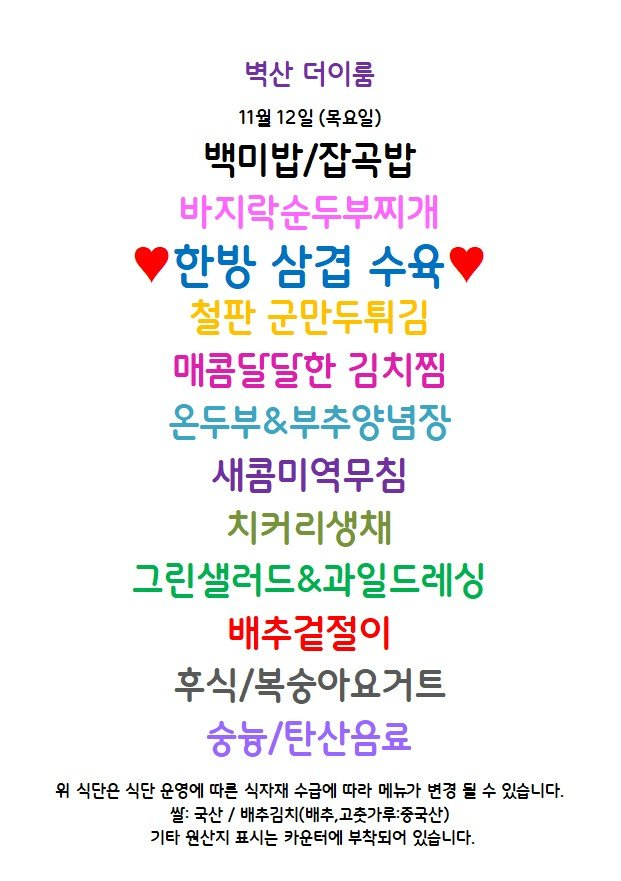
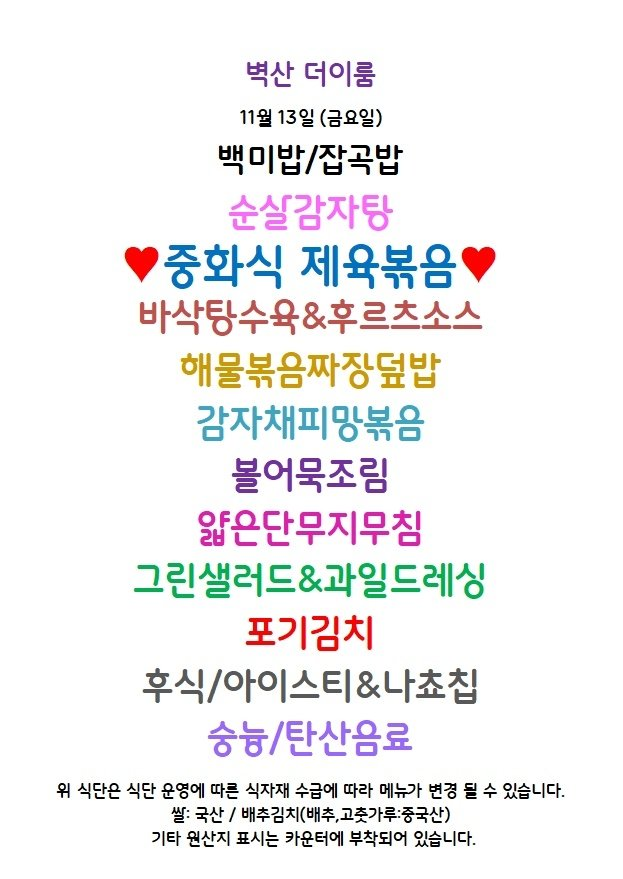
Update menu board assets

diff --git a/guro-menu/index.html b/guro-menu/index.html
@@ -32,7 +32,7 @@
   </header>
   <section class="meta">
     <div><small>기준 날짜</small><strong>2026년 11월 13일 금요일</strong></div>
-    <div><small>최종 갱신</small><strong>2026-11-13 09:03:47</strong></div>
+    <div><small>최종 갱신</small><strong>2026-11-13 09:14:06</strong></div>
     <div><small>등록 식당</small><strong>5개</strong></div>
   </section>
   <div class="notice">공개 카카오 채널의 메뉴 이미지를 자동 수집하고 OCR로 정리합니다. 텍스트에 오타가 있을 수 있으니 식단 이미지를 함께 확인해 주세요.</div>
@@ -89,8 +89,8 @@
           <a class="channel" href="https://pf.kakao.com/_xdLzxgG" target="_blank" rel="noopener">원본 채널</a>
         </div>
         <img class="menu-image" src="./images/byucksan-theirum.png" alt="벽산더이룸 식단 이미지" loading="lazy">
-        <p class="message">최신 공개 식단 이미지의 텍스트입니다. 날짜는 원본 이미지를 확인해 주세요.</p>
-        <ul><li>백미밥/잡곡밥</li><li>바지락순두부찌개</li><li>VOTH 삼겹 AgY</li><li>매콤딜딜한 김치찜</li><li>온두부&amp;부추양념장</li><li>새콤미역무침</li><li>치커리생채</li><li>그린샐러드&amp;과일드레싱</li><li>배추겉절이</li><li>후식/복숭아요거트</li><li>숭늉/탄산음료</li><li>쌀: 국산 / 배추김치(배추,고추가루:중국산)</li><li>기타 원산지 표시는 카운터에 부착되어 있습니다</li></ul>
+        
+        <ul><li>백미밥/잡곡밥</li><li>순실감자탕</li><li>YSU! 제육볶음</li><li>바삭탕수육8후르츠소스</li><li>해물볶음짜장덮밥</li><li>감자채피망볶음</li><li>볼어묵조림</li><li>앞은단무지무침</li><li>그린샐러드&amp;과일드레싱</li><li>포기김치</li><li>숭늉/탄산음료</li><li>Af: 국산 / 배추김치(배추,고추가루:중국산)</li><li>기타 원산지 HALL 카운터에 부착되어 있습니다</li></ul>
       </article>
 
       <article class="restaurant-card">

diff --git a/menu-today/index.html b/menu-today/index.html
@@ -209,7 +209,7 @@
 
     <section class="meta-bar">
       <div class="meta-card"><div class="meta-label">기준 날짜</div><div class="meta-value">2026년 11월 13일 금요일</div></div>
-      <div class="meta-card"><div class="meta-label">최종 가져온 시간</div><div class="meta-value">2026-11-13 09:03:32</div></div>
+      <div class="meta-card"><div class="meta-label">최종 가져온 시간</div><div class="meta-value">2026-11-13 09:13:50</div></div>
       <div class="meta-card"><div class="meta-label">확인 완료</div><div class="meta-value">9개 식당</div></div>
       <div class="meta-card"><div class="meta-label">준비중</div><div class="meta-value">3개 채널</div></div>
     </section>
@@ -225,7 +225,7 @@
             <div class="sub">현대테라타워 가산DK</div>
           </div>
         </div>
-        <div class="menu-inline-image"><img src="./images/imeal.png" alt="아이밀 식단 이미지"></div><div class="info-note">오늘 메뉴 미수집 상태입니다.</div>
+        <div class="menu-inline-image"><img src="./images/imeal.png" alt="아이밀 식단 이미지"></div><ul><li>고기짜장라이스</li><li>중화면</li><li>겉바속촉 군만두</li><li>오이부추무침 / 짜사이무침</li><li>가든샐러드 &amp; 망고[</li><li>포기김치</li><li>백미밥 / 흑미밥</li><li>팔보채</li><li>무침 / 짜사이무침</li><li>가든샐러드</li></ul>
       </article>
 
       <article class="restaurant-card">
